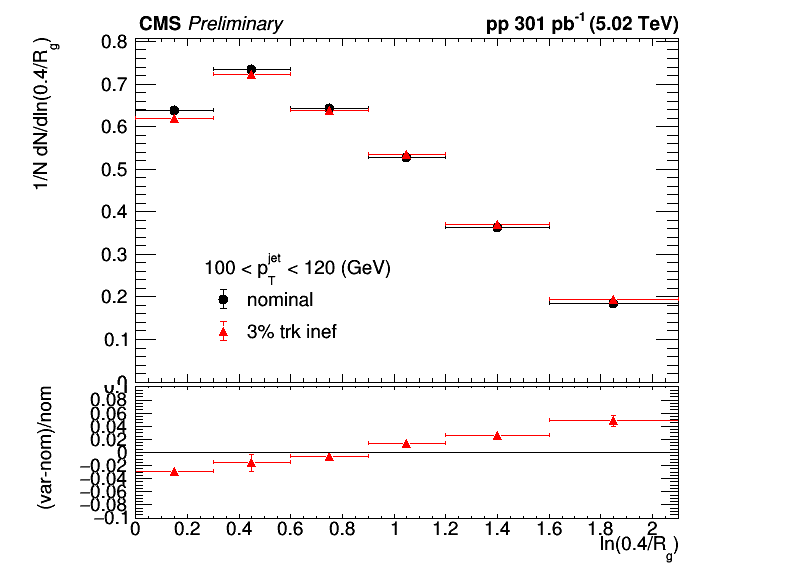
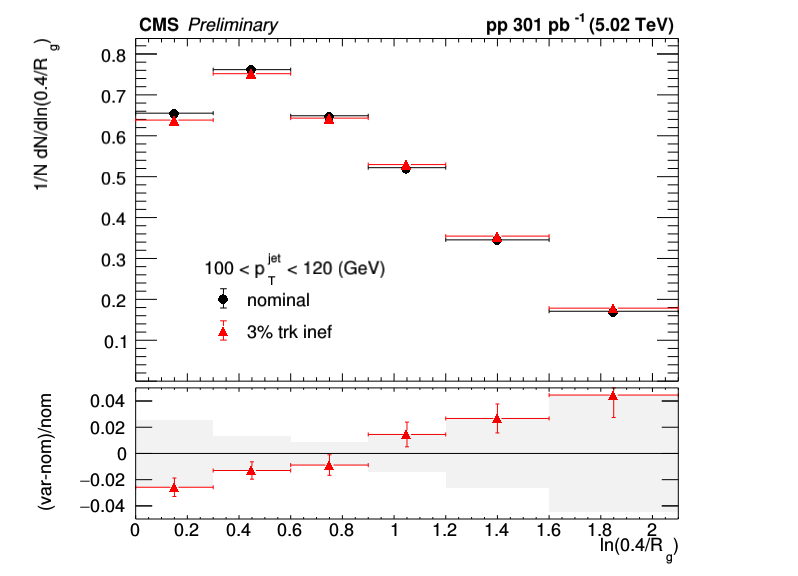
update trk inef unc plots for inclusive jets with sym band

diff --git a/myMacros/C106X/uncertanties/trk_inef_unc_inclusive.C b/myMacros/C106X/uncertanties/trk_inef_unc_inclusive.C
@@ -9,6 +9,7 @@ void trk_inef_unc_inclusive(TString observable="rg")
     gStyle->SetLabelSize(text_size, "XYZ");
     gStyle->SetTitleSize(text_size, "XYZ");
     gStyle->SetErrorX(0.5);
+    gStyle->SetCanvasPreferGL(kTRUE);
 
     TString xlabel;
     if (observable=="rg") xlabel = "ln(0.4/R_{g})";
@@ -116,8 +117,9 @@ void trk_inef_unc_inclusive(TString observable="rg")
         h_inef_unc_rel->Divide(h_nom_1d);
         h_inef_unc_rel->GetYaxis()->SetTitle("(var-nom)/nom");
         h_inef_unc_rel->GetYaxis()->SetTitleOffset(2);
-        h_inef_unc_rel->GetYaxis()->SetRangeUser(-0.1, 0.1);
-        if (observable=="zg") h_inef_unc_rel->GetYaxis()->SetRangeUser(-0.05, 0.05);
+        h_inef_unc_rel->GetYaxis()->SetRangeUser(-0.05, 0.05);
+        h_inef_unc_rel->GetYaxis()->SetNdivisions(6);
+        if (observable=="zg") h_inef_unc_rel->GetYaxis()->SetRangeUser(-0.02, 0.02);
         h_inef_unc_rel->Write();
 
         bottom_pads[ipad]->cd();
@@ -129,12 +131,26 @@ void trk_inef_unc_inclusive(TString observable="rg")
         // h_inef_unc->Draw("hist same");
         h_inef_unc_rel->Draw("pe1");
 
+        TH1D *h_band = (TH1D *) h_inef_unc_rel->Clone("h_band");
+        h_band->Reset();
+        for (int ibin_x=1; ibin_x<=h_inef_unc_rel->GetNbinsX(); ibin_x++) {
+            double maxUnc = h_inef_unc_rel->GetBinContent(ibin_x);
+            h_band->SetBinContent(ibin_x, 0.);
+            h_band->SetBinError(ibin_x, maxUnc);
+        }
+
+        h_band->SetMarkerSize(0);
+        h_band->SetFillStyle(1001);
+        h_band->SetFillColorAlpha(kBlack, 0.05);
+        h_band->Draw("e2 same");
+
         TLine *line = new TLine(h_inef_unc->GetXaxis()->GetBinLowEdge(ibin_x_min), 0, h_inef_unc->GetXaxis()->GetBinUpEdge(ibin_x_max), 0);
         line->Draw();
 
         c_inef->cd();
         top_pads[ipad]->Draw();
         bottom_pads[ipad]->Draw();
+
     }
 
     c_inef->Draw();
